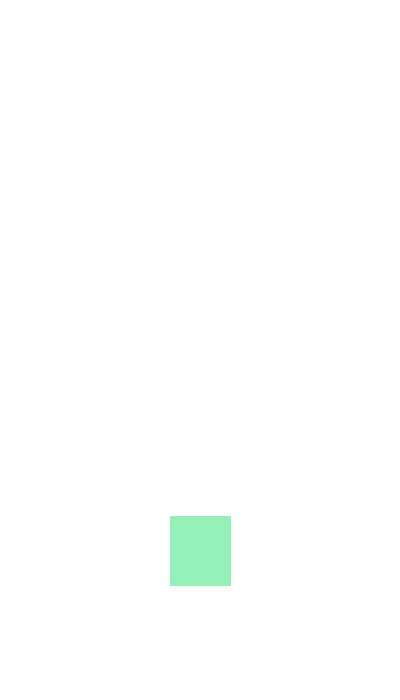
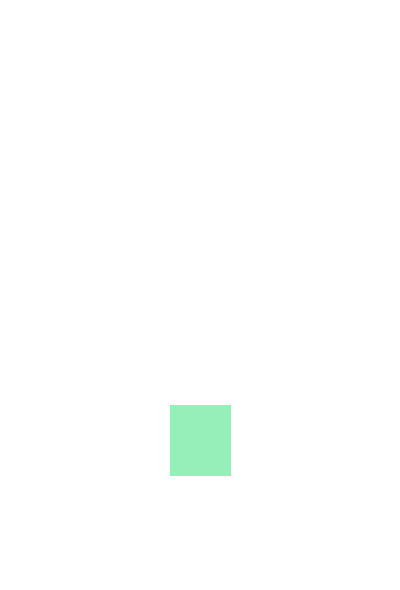
donation part of fm updated

Changed region(s): [[0.42, 0.6712, 0.6, 0.7627], [0.42, 0.7932, 0.6, 0.8542]]

diff --git a/mps/mps_site/templates/dcufm.html b/mps/mps_site/templates/dcufm.html
@@ -66,8 +66,7 @@
     <div class="row justify-content-center" style="text-align: center;">
   
       <div class="col-md-12 custom-box">
-        <h1>Time Until the Broadcast</h1>
-        <h2 id="fm-countdown"></h2>
+        
         <!--<img src="static/assets/fm/aware_logo.png" alt="12 Hour Broadcast" style="width: 30%;" />-->
         <div id="12hour-description" style="background-color: #202E4E; border-radius: 15px; padding:20px; margin-left: 70px; margin-right: 70px;">
           <p style="margin-bottom: 10px;">IT’S THE 12 HOUR BROADCAST!! 💛
@@ -83,28 +82,32 @@
             See you all there on March 28th from 9am-9pm… show forms out soon 😏
           </p>
         </div>
+        <h2 id="fm-countdown" style="padding-top: 20px;"></h2>
         <div class="center-contents" > <!--style="padding-bottom: 500px;"-->
           <div class="container mt-4">
             <div class="row">
               <div class="col-md-4">
-                <div class="committee-member" style="background-color: #202E4E; border-radius: 15px; padding:20px">
+                <div class="other-member" style="background-color: #202E4E; border-radius: 15px; padding:20px">
                   <img src="{% static 'assets/fm/12HR_1.jpeg' %}" alt="12 Hour Broadcast" style="width: 100%;" />
                 </div>
               </div>
             <div class="col-md-4">
-              <div class="committee-member" style="background-color: #202E4E; border-radius: 15px; padding:20px">
-                <img src="{% static 'donation_thermometer.png' %}" alt="12 Hour Broadcast" style="width: 58%;" />
+              <div class="other-member" style="background-color: #202E4E; border-radius: 15px; padding:20px">
+                <img src="{% static 'donation_thermometer.png' %}" alt="12 Hour Broadcast" style="width: 68%;" />
               </div>
             </div>
             <div class="col-md-4">
-        <div class="committee-member" style="background-color: #202E4E; border-radius: 15px; padding:20px">
+        <div class="other-member" style="background-color: #202E4E; border-radius: 15px; padding:20px">
           <img src="{% static 'assets/fm/12HR_2.jpeg' %}" alt="12 Hour Broadcast" style="width: 100%;" />
         </div>
     
       </div>
       
       </div>
-      <a class="btn btn-primary" style="background-color: #202E4E; border-radius: 25px; border-width: 4px; border-color: #FFE085;" href="{% url 'donate' %}">Donate to Aware</a>  
+      <a class="btn btn-primary" style="background-color: #202E4E; border-radius: 25px; border-width: 4px; border-color: #FFE085;" href="{% url 'donate' %}">Donate to Aware</a>
+      <br>
+      <br>
+      <a class="btn btn-primary" style="background-color: #202E4E; border-radius: 25px; border-width: 4px; border-color: #FFE085;" href="https://docs.google.com/forms/d/e/1FAIpQLSdXKYyyhk-zhEBYjZwGLRU98BQi1zK6_wy_Hgf671xGUauwkg/viewform">Show Forms</a>    
       </div>
       </div>
         </div>

diff --git a/mps/mps_site/static/js/fm-countdown.js b/mps/mps_site/static/js/fm-countdown.js
@@ -16,7 +16,7 @@ var x = setInterval(function() {
   var seconds = Math.floor((distance % (1000 * 60)) / 1000);
 
   // Display the result in the element with id="fm-countdown"
-  document.getElementById("fm-countdown").innerHTML = days + "d " + hours + "h "
+  document.getElementById("fm-countdown").innerHTML = "The broadcast begins in: " + days + "d " + hours + "h "
   + minutes + "m " + seconds + "s ";
 
   // If the count down is finished, write some text

diff --git a/mps/mps_site/static/css/style.css b/mps/mps_site/static/css/style.css
@@ -222,6 +222,19 @@ h3, h5 {
       height: 50%; /* Adjust the height as needed */
     }
 
+    .other-member {
+      text-align: center;
+      margin-bottom: 40px;
+    }
+
+    .other-member img {
+      max-width: 100%;
+      height: auto;
+      border-radius: 5%;
+      /* margin-bottom: 30px; */
+      padding: 4px;
+    }
+
     .committee-member {
       text-align: center;
       margin-bottom: 40px;

diff --git a/mps/mps_site/main_single.py b/mps/mps_site/main_single.py
@@ -10,8 +10,6 @@ import random
 import sys
 import os
 
-print(os.listdir())
-
 def create_donation_thermometer(goal, current_donation, image_width=400, image_height=700):
     # Create a blank image with RGBA color mode (4 channels including Alpha)
     image = Image.new("RGBA", (image_width, image_height), (0, 0, 0, 0))
@@ -82,6 +80,9 @@ def get_donation_count_fm():
     goal_amount = int(str(donation_target).split("€")[1].split("<")[0].replace(",",""))
     thermometer_image = create_donation_thermometer(goal_amount, current_donation_amount)
     thermometer_image.save("./mps_site/static/donation_thermometer.png")
+    cropped_image = Image.open("./mps_site/static/donation_thermometer.png")
+    cropped_image = cropped_image.crop((0, 110, 400, 700))
+    cropped_image.save("./mps_site/static/donation_thermometer.png")
     current_time = datetime.datetime.now().strftime("%Y-%m-%d %H:%M:%S")
     print(f"Donation Count Updated ({current_time}): €{current_donation_amount} out of €{goal_amount}")
 

diff --git a/mps/mps_site/most_popular_videos.py b/mps/mps_site/most_popular_videos.py
@@ -1,0 +1,24 @@
+import yt_dlp as youtube_dl
+
+def get_most_popular_video_ids(channel_url, n=9):
+    ydl_opts = {
+        'quiet': True,
+        'force_generic_extractor': True,
+        'skip_download': True,
+        'extract_flat': True,
+        'match_filter': youtube_dl.utils.match_filter_func('view_count>=1000000'),
+        'playlistend': n,
+        'sort': 'view_count'
+    }
+    with youtube_dl.YoutubeDL(ydl_opts) as ydl:
+        info = ydl.extract_info(channel_url, download=False)
+        video_ids = [entry['id'] for entry in info['entries']]
+        return video_ids
+
+if __name__ == "__main__":
+    #channel_url = input("Enter the URL of the YouTube channel: ")
+    channel_url = "https://www.youtube.com/@dcumps"
+    top_videos = get_most_popular_video_ids(channel_url)
+    print("Most Popular Video IDs:")
+    for idx, video_id in enumerate(top_videos, start=1):
+        print(f"{idx}. {video_id}")

diff --git a/mps/mps_site/latest_video.py b/mps/mps_site/latest_video.py
@@ -16,4 +16,3 @@ def get_latest_video_id(channel_url):
 # Example usage:
 channel_url = "https://www.youtube.com/feeds/videos.xml?channel_id=UCEnLsvcq1eFkSFFAIqBDgUw"
 latest_video_id = get_latest_video_id(channel_url)
-print("Latest video ID:", latest_video_id)
